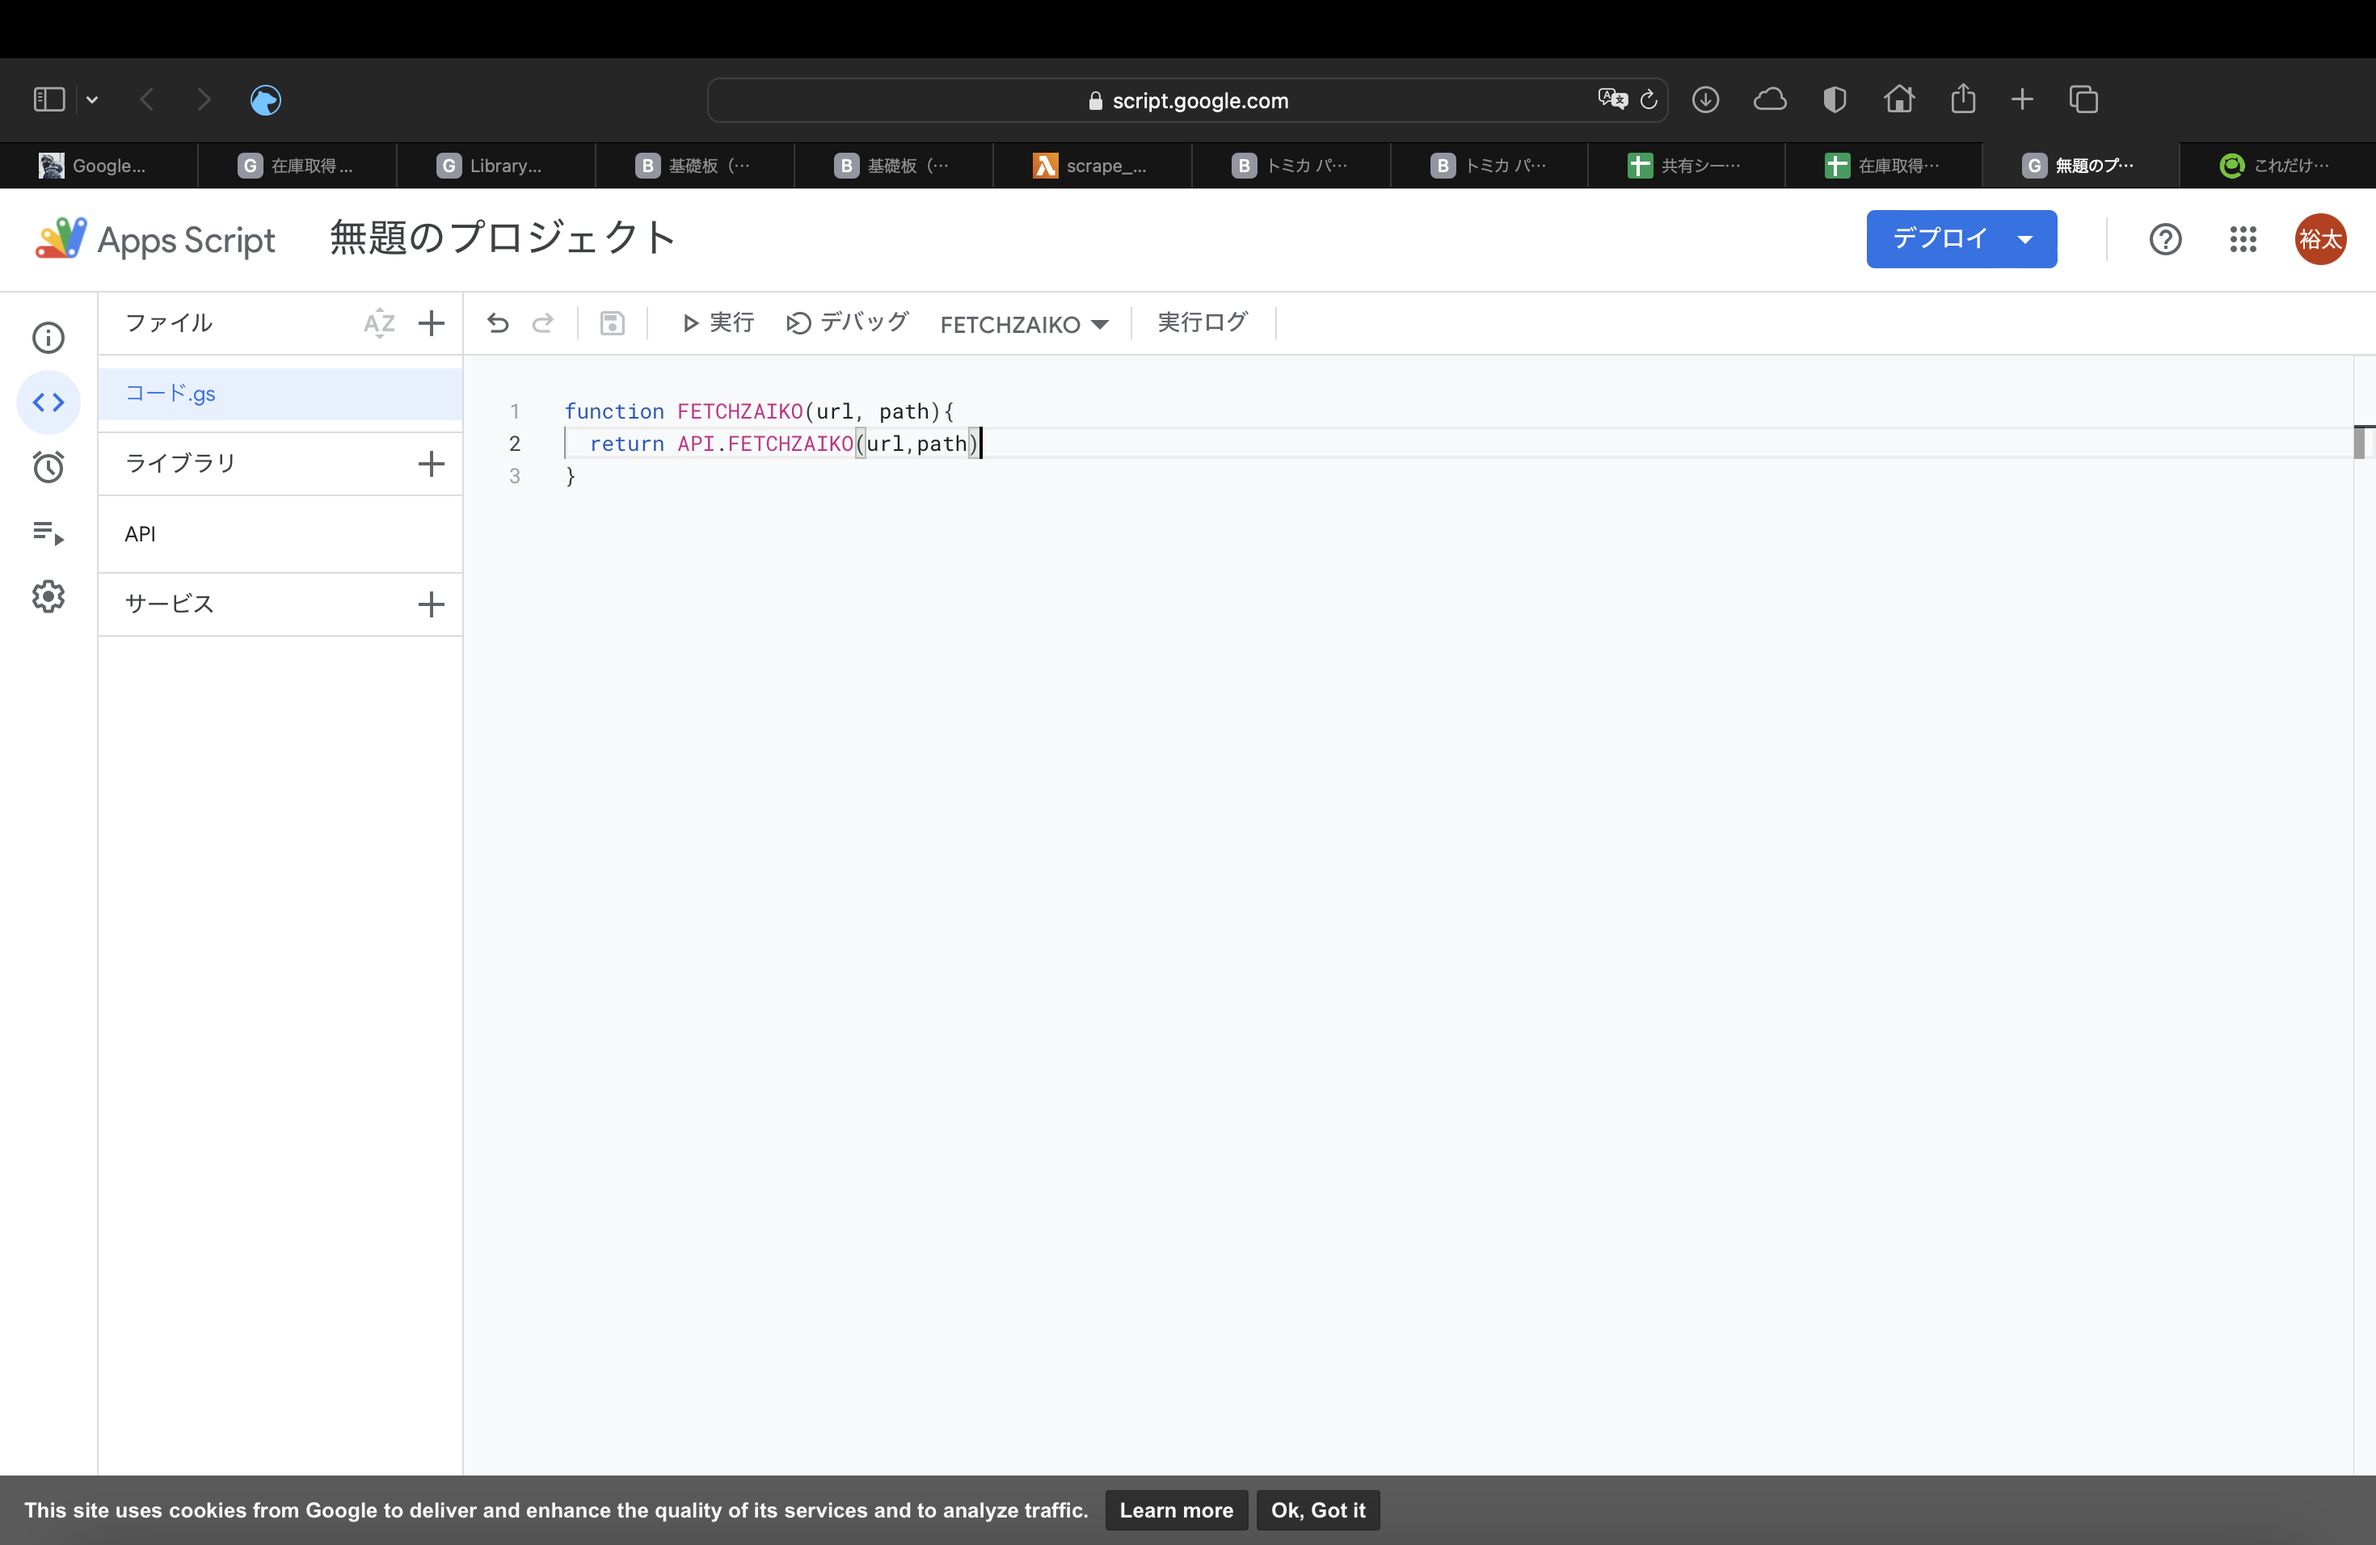
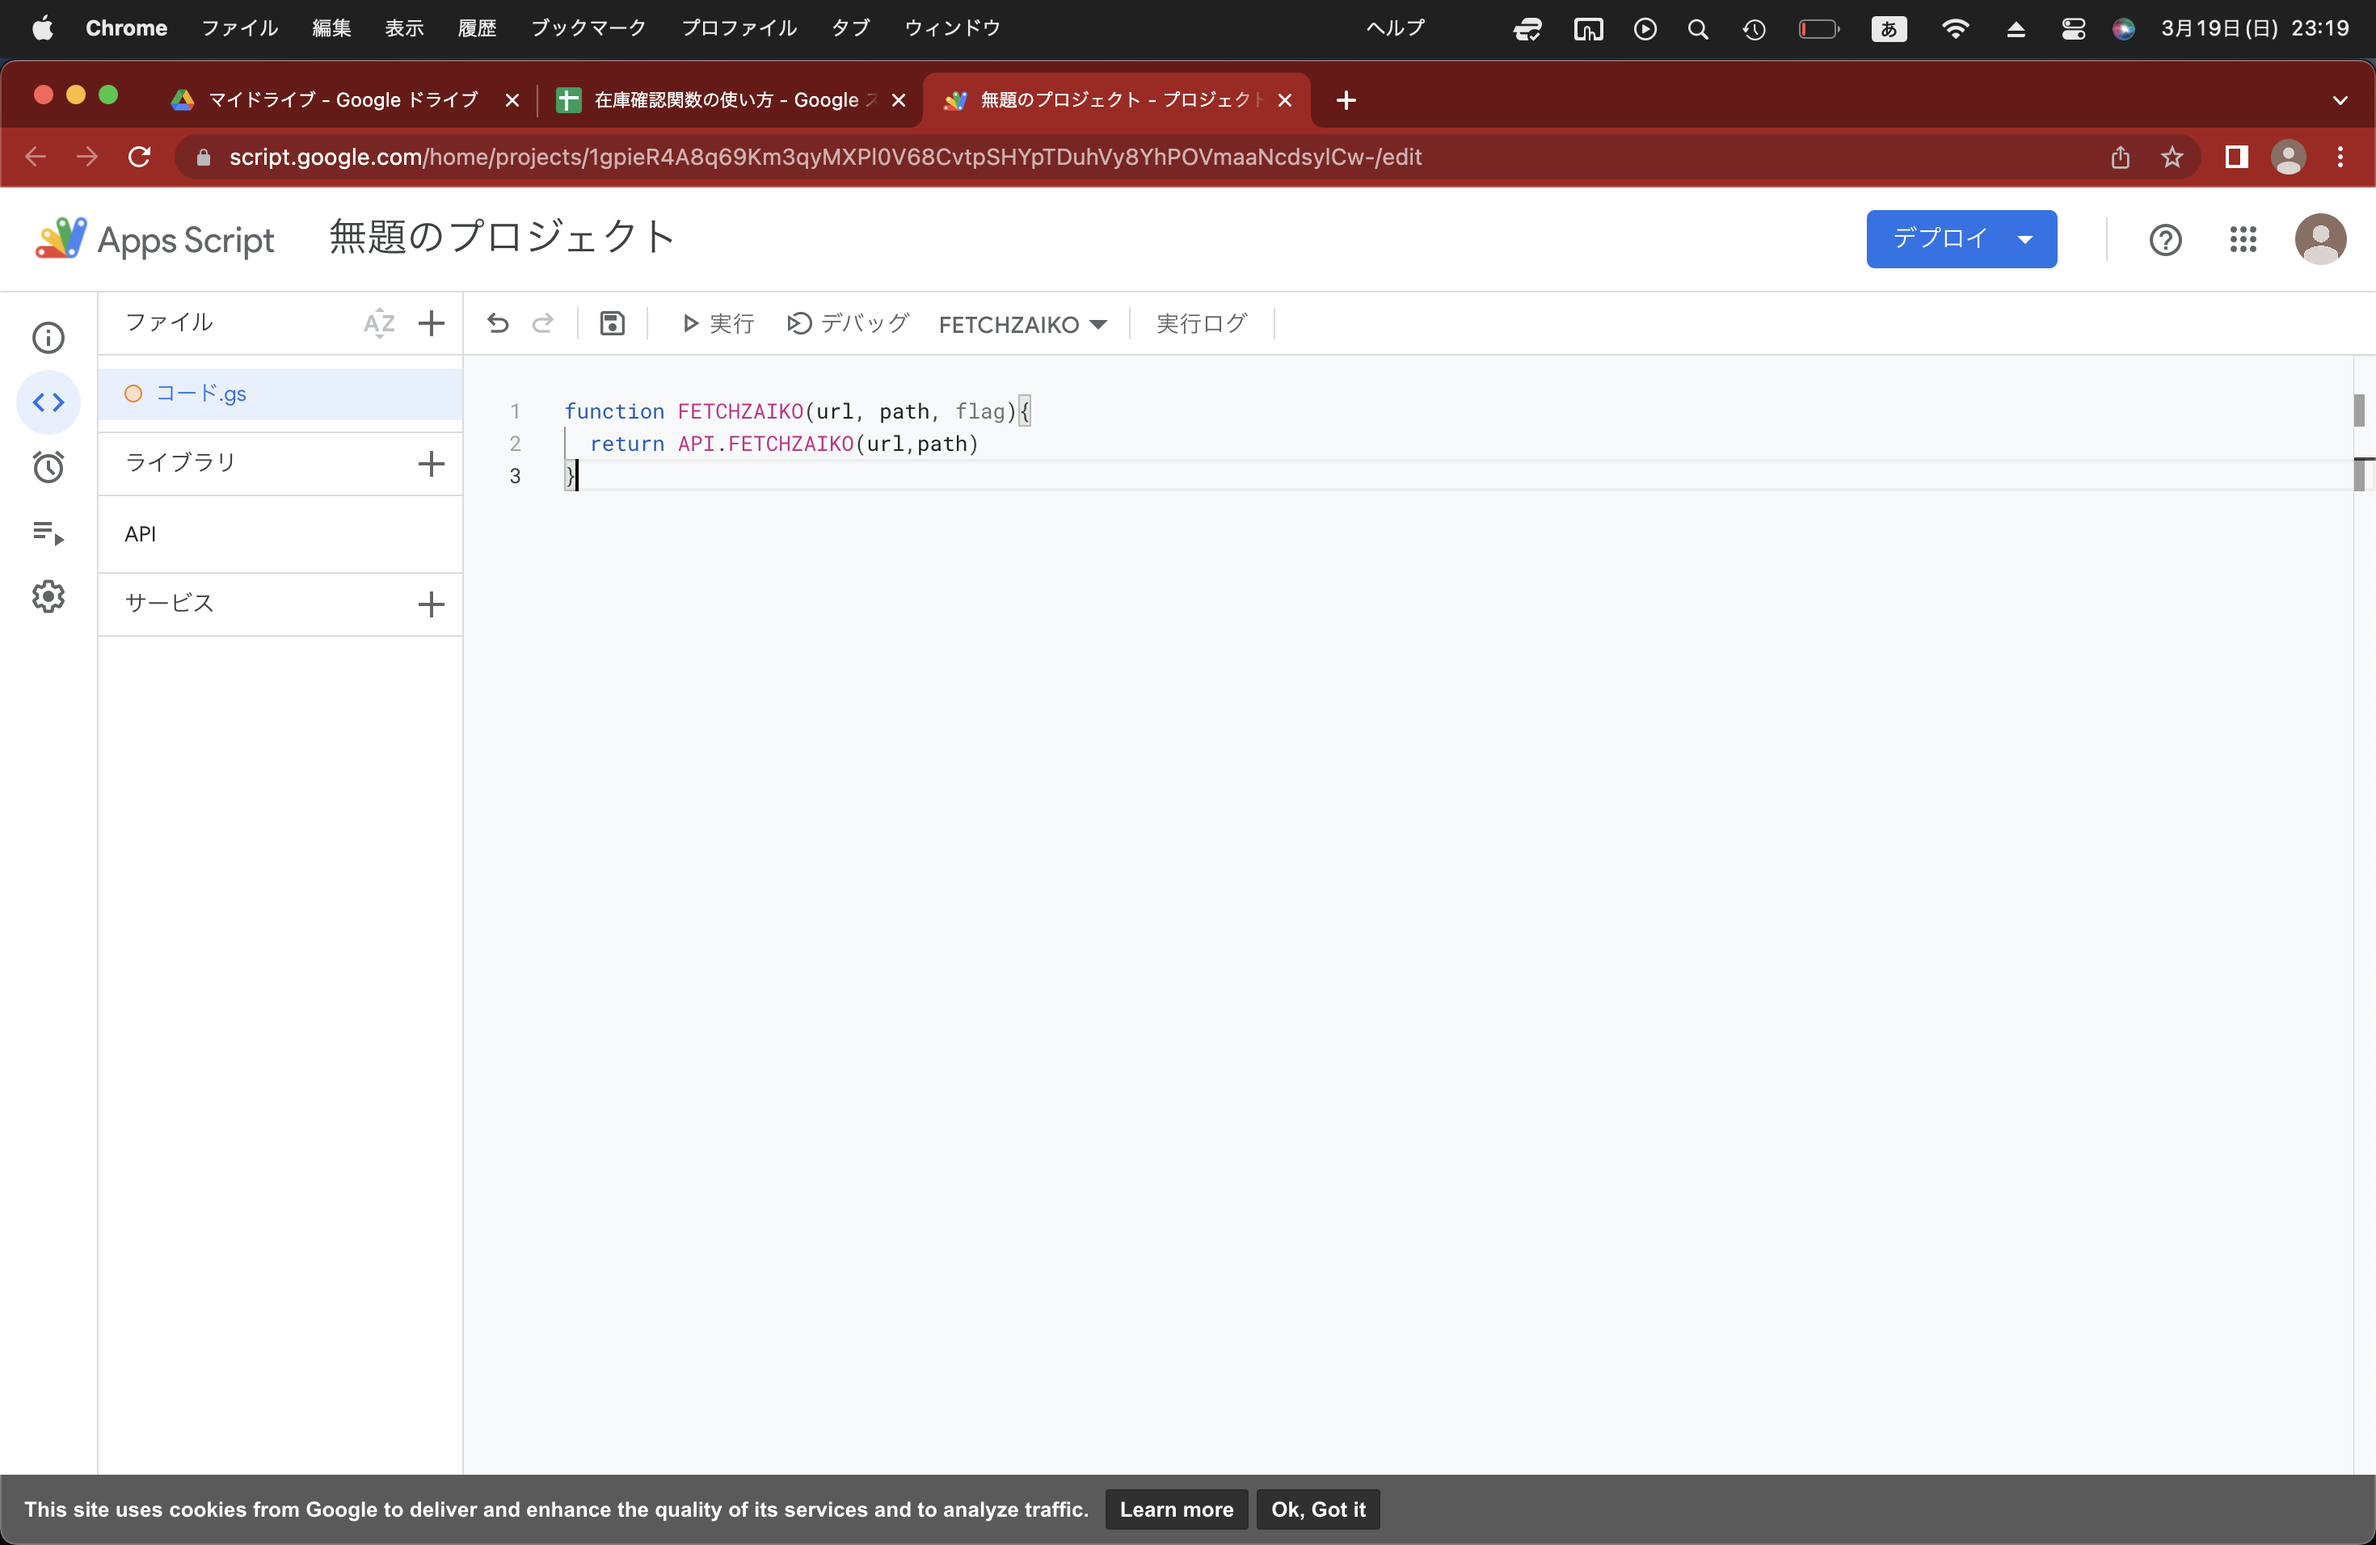
add yodoashi update method

diff --git a/在庫取得セル関数の使い方.md b/在庫取得セル関数の使い方.md
@@ -1,6 +1,10 @@
 ## 在庫取得セル関数の使い方
 
 
+## 変更歴
+2023/3/20 ヨドバシを対応
+2023/3/20 在庫更新方法を追記
+
 
 ## 初期設定
 
@@ -30,10 +34,10 @@
 
    ![image-20230205143606561](在庫取得セル関数の使い方.assets/image-20230205143606561.png)
 
-6. コード.gsをクリックし以下のコードを貼り付ける
+6. コード.gsをクリックし以下のコードを貼り付ける(2023/3/20更新)
 
    ```
-   function FETCHZAIKO(url, path){
+   function FETCHZAIKO(url, path, flag){
      return API.FETCHZAIKO(url,path)
    }
    ```
@@ -43,11 +47,18 @@
 
 
 ## セル関数使用方法
-
-- セル関数(FETCHZAIKO)にURLとPATH（後述）を渡すことで在庫数を取得する
+- 任意のセルに任意の文字を入力しておく（更新用フラグ）
+- セル関数(FETCHZAIKO)にURLとPATH、flagを渡すことで在庫数を取得する
+> = FETCHZAIKO(URL, PATH, 任意のセル)
 
 ![image-20230205144314103](在庫取得セル関数の使い方.assets/image-20230205144314103.png)
 
+## 更新方法
+- 任意のセルに任意の文字を変更することで値が更新される
+
+![image-20230320145338461](在庫取得セル関数の使い方.assets/image-20230320145338461.png)
+
+![image-20230320145338462](在庫取得セル関数の使い方.assets/image-20230320145338462.png)
 
 
 ##### １. 在庫を取得したい対象のURLとパスを探してくる
@@ -84,18 +95,30 @@
 
     > body > section > a > div
 
+- ヨドバシの場合
+
+  - URL
+
+   例）https://www.yodobashi.com/product/100000001006819597/
+
+    ![image-20230320145338458](在庫取得セル関数の使い方.assets/image-20230320145338458.png)
+
+  - PATH
+
+    基本的には以下でOK（取れない場合は以下のパス取得方法を参照）
+
+    > #JS_topStoreCount
+
 2. 以下を参考にセル関数にURLとパスを引き渡す
 
    ![image-20230205145338458](在庫取得セル関数の使い方.assets/image-20230205145338458.png)
 
 
 
-
-
 ## その他
 
-##### 対応しているサイト（20230205時点）
+##### 対応しているサイト（20230320時点）
 
 - トイザらス
 - ビックカメラ
-- ヨドバシ（未対応）
+- ヨドバシ（3/20対応）
